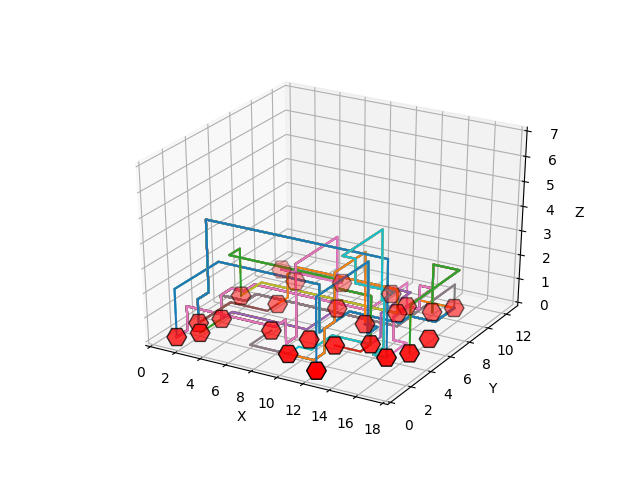
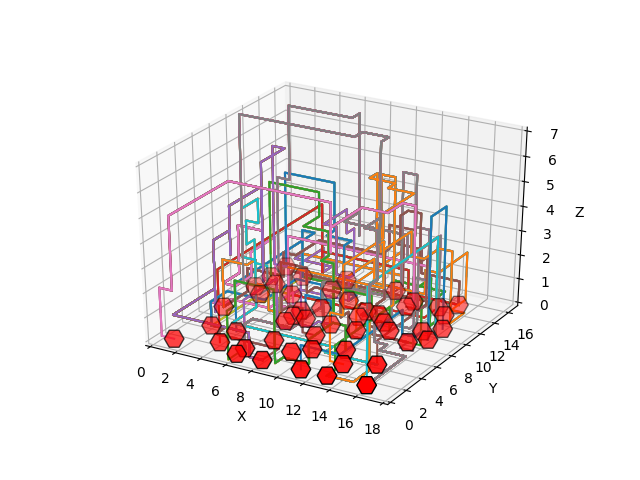
hillclimb improved

diff --git a/code/algorithms/hillclimb.py b/code/algorithms/hillclimb.py
@@ -1,70 +1,51 @@
 from code.algorithms.xyz_move import xyz_wire
+from code.algorithms.astar import execute_astar
 
 def find_point_stuck(output_dict, unsolved_wire):
 	""" Find the point where the wire gets stuck in the grid. """
 
-	stuck_dict = {}
+	stuck_point = {}
+	stuck_wires = {}
+
 	for net, wire in output_dict.items():
 		# check if no wire
 		if len(wire) < 2:
+			# initialise wire
+			wire = []
 
-			# look in wire
+			# look in unsolved wire
 			for point in unsolved_wire[net]:
+
 				# find the point where wire gets stuck
-				if net[1][0] == point[0] and net[1][1] == point[1] and (unsolved_wire[net].count(point) == 1):
-					stuck_dict[net] = point
+				if net[1][0] == point[0] and net[1][1] == point[1] and (unsolved_wire[net].count(point) == 1) or point == unsolved_wire[net][-1]:
+					stuck_wires[net] = wire
+					stuck_point[net] = point
 					break
 
-	return stuck_dict
+				wire.append(point)
 
+	return stuck_point, stuck_wires
 
-def find_blocking_wire(output_dict, stuck_dict):
-	""" Find the wires that block other wires. """
+def change_wires(stuck_points, stuck_wires, chip, output_dict):
 
-	block_dict = {}
-	for point in stuck_dict.values():
-		for net, wire in output_dict.items():
+	new_output_dict = {}
+	for net, point in stuck_points.items():
+		# make new netlist
+		new_netlist = [(point, net[1])]
 
-			# check if wire is below point
-			if (point[0], point[1], (point[2] - 1)) in wire:
-				block_dict[net] = wire
+		# execute astar
+		new_wires = execute_astar(new_netlist, chip)
 
-	return block_dict
+		# merge wires if new found
+		if len(next(iter(new_wires.values()))) > 1:
+			stuck_wires[net] += next(iter(new_wires.values()))
+			new_output_dict[net] = stuck_wires[net]
 
-def change_wires(stuck_dict, block_dict, chip, output_dict):
-	""" Changes the wires that block other wires. """
+	output_dict.update(new_output_dict)
 
-	block_netlist = []
-	stuck_netlist = []
+	unsolved_count = 0
 
-	# remove blocked wires
-	for net, wire in block_dict.items():
-		block_netlist.append(net)
-		for point in wire:
-			chip.grid[point[0]][point[1]][point[2]] = False
-
-	# lay stuck wires
-	for net, point in stuck_dict.items():
-		stuck_netlist.append(net)
-
-		for z in range(int(point[2]) + 1):
-			chip.grid[point[0]][point[1]][point[2] - z] = True
-
-	block_wires, block_unsolved = xyz_wire(block_netlist, chip)
-
-	# make sure stuck wires can be laid
-	for net, point in stuck_dict.items():
-		stuck_netlist.append(net)
-		for z in range(int(point[2]) + 1):
-			chip.grid[point[0]][point[1]][point[2] - z] = False
-
-	stuck_wires, stuck_unsolved = xyz_wire(stuck_netlist, chip)
-
-	print("stuck unsolved", stuck_wires)
-	print("block_unsolved", block_wires)
-
-	output_dict.update(block_wires)
-	output_dict.update(stuck_wires)
-
+	for net in stuck_points:
+		unsolved_count += 1
 
 	return output_dict

diff --git a/code/algorithms/astar.py b/code/algorithms/astar.py
@@ -85,7 +85,7 @@ def astar(gates, grid, start, end, index=None):
 
 		for neighbour in neighbours:
 			h = manhattan_distance(neighbour, end) # loose_cables(current_path[-1], neighbour, end)
-			
+
 			new_path = current_path + [neighbour]
 
 			if neighbour == end:
@@ -98,32 +98,33 @@ def astar(gates, grid, start, end, index=None):
 			heappush(Q, (f, new_path))
 
 
-def execute_astar(netlist, chip, req_sort):
+def execute_astar(netlist, chip):
 	""" Execute astar function for all nets. """
-	
+
 	grid = chip.grid
 	gates = chip.gates
 	output_dict = {}
 	count = 0
 
-	if req_sort == 'loose_layering':
-		for index, layer in enumerate(netlist):
-			for net in layer:
-				start = net[0]
-				end = net[1]
-				between = ((start[0] + end[0]) / 2 , (start[1] + end[1]) / 2, 7 - index)
-				path_1 = astar(gates, grid, start, between, index)
-				path_2 = astar(gates, grid, start, end, index)
-				output_dict[net] = path_1 + path_2
+	# if req_sort == 'loose_layering':
+	# 	for index, layer in enumerate(netlist):
+	# 		for net in layer:
+	# 			start = net[0]
+	# 			end = net[1]
+	# 			between = ((start[0] + end[0]) / 2 , (start[1] + end[1]) / 2, 7 - index)
+	# 			path_1 = astar(gates, grid, start, between, index)
+	# 			path_2 = astar(gates, grid, start, end, index)
+	# 			output_dict[net] = path_1 + path_2
+	#
+	# else:
 
-	else:
-		for net in netlist:
-			start = net[0]
-			end = net[1]
-			path = astar(gates, grid, start, end)
-			count += 1
-			print(path)
-			print(count)
-			output_dict[net] = path
+	for net in netlist:
+		start = net[0]
+		end = net[1]
+		path = astar(gates, grid, start, end)
+		count += 1
+		print(path)
+		print(count)
+		output_dict[net] = path
 
 	return output_dict

diff --git a/code/algorithms/xyz_move.py b/code/algorithms/xyz_move.py
@@ -4,6 +4,7 @@ def xyz_wire(netlist, chip):
 
 	output_dict = {}
 	unsolved_wire = {}
+	unsolved_count = 0
 
 	for net in netlist:
 		wire = []
@@ -54,13 +55,13 @@ def xyz_wire(netlist, chip):
 				# move +z if z of end is larger and +z is open
 				else:
 					if current[2] + 1 == 8:
-						print("tot hier komt ie: ", wire)
-						print(f"dit is het eind: {end}" )
+						unsolved_count += 1
 						output_dict[net] = [(0, 0, 0)]
 						unsolved_wire[net] = wire
 						break
 					current[2] += 1
 					chip.grid[current[0]][current[1]][current[2]] = True
 					wire.append(tuple(current))
+	print("unsolved: ", unsolved_count)
 
 	return output_dict, unsolved_wire

diff --git a/code/classes/wiring.py b/code/classes/wiring.py
@@ -24,9 +24,8 @@ class Wiring():
 		algorithm = self.choose_alg(alg_req)
 		if alg_req == 'xyz_move':
 			self.wire, self.unsolved = algorithm(self.netlist, self.chip)
-			self.stuck = find_point_stuck(self.wire, self.unsolved)
-			self.block = find_blocking_wire(self.wire, self.stuck)
-			self.new_wires = change_wires(self.stuck, self.block, self.chip, self.wire)
+			self.stuck, self.stuck_wires = find_point_stuck(self.wire, self.unsolved)
+			self.new_wires = change_wires(self.stuck, self.stuck_wires, self.chip, self.wire)
 		else:
 			self.wire = algorithm(self.netlist, self.chip)
 
